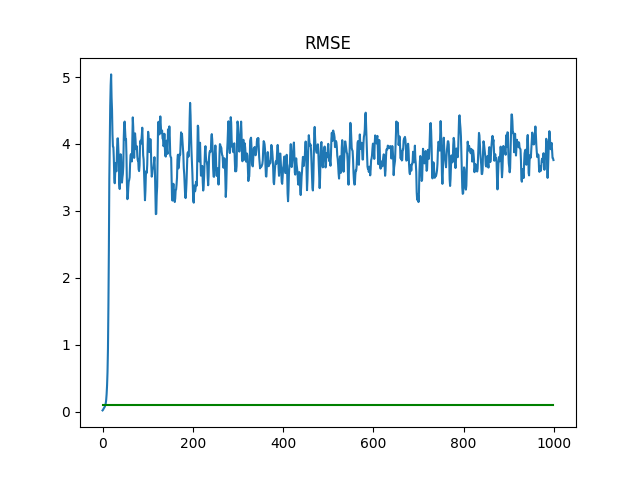
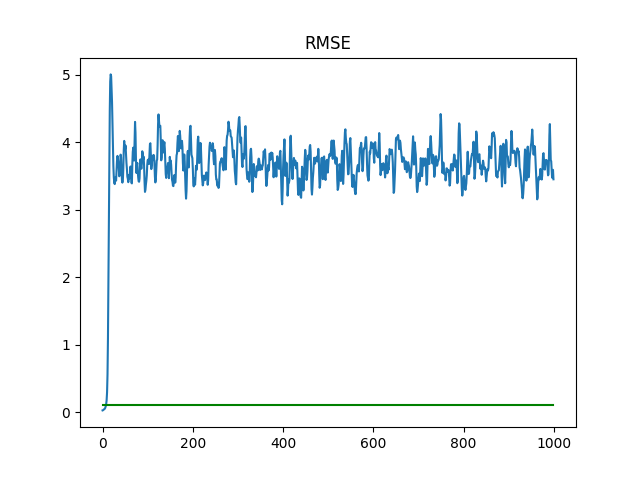
covariance inflation

diff --git a/driv96.m b/driv96.m
@@ -5,10 +5,20 @@ N=40; %Number of ensemble members
 %H=eye(m,n); %Observation operator: 
 H = zeros(m,n);
 for k=1:m
-H(k,2*(k-1)+1)=1;
+%H(k,2*(k-1)+1)=1;
+%H(k,2*(k-1)+2)=1;
+H(k,k)=1;
 end
 H
 
+localization_radius = 3;
+C_localization = zeros( n );
+
+for i=1:n
+    for j=1:n
+        C_localization( i, j ) = GC( abs( i - j ), localization_radius );
+    end
+end
 
 dt = 0.1 %Time between observations
 J = 1000; %Number of assimilation times
@@ -44,7 +54,7 @@ end
 
 %Main Time Loop
 for j=1:J
-
+j
 %Prediction of Ensembles
 for k=1:N
 Tspan = [(j)*dt,(j+1)*dt];
@@ -67,8 +77,11 @@ Chat = Chat + covvec*covvec';
 end
 Chat = Chat/(N-1);
 
+% Apply the localization
+Chat = C_localization.*Chat;
+
 %Analysis
-S = H*Chat*H'+Gamma;
+S = H*(Chat)*H'+Gamma;
 for k=1:N
 Innov(:,k) = yt(:,j+1)-H*Vharr(:,k)+alpha*randn(1,m)';
 SinvI(:,k) = S\Innov(:,k);
@@ -99,3 +112,16 @@ plot([1:J],alpha*ones(J,1),'g-');
 title('RMSE');
 
 meanVarr = Vharr;RMSE = mean(RMSE)
+
+function gc_val = GC( dist, r )
+    if ( dist >= 0 && dist < 1 )
+        gc_val = 1 - ( ( 5 / 3 ) * dist ^ 2 ) + ( ( 5 / 8 ) * dist ^ 3 ) + ( ( 1 / 2 ) * dist ^ 4 ) - ( ( 1 / 4 ) * dist ^ 5 );
+
+    elseif ( dist >= 1 && dist < r )
+        gc_val = 4 - ( 5 * dist ) + ( ( 5 / 3 ) * dist ^ 2 ) + ( ( 5 / 8 ) * dist ^ 3 ) - ( ( 1 / 2 ) * dist ^ 4 ) - ( ( 1 / 12 ) * dist ^ 5 ) - ( 2 / ( 3 * dist ) );
+    
+    else
+        gc_val = 0;
+    end
+    return
+end

diff --git a/driv96.py b/driv96.py
@@ -10,9 +10,8 @@ m=20 #Dimension of observation space
 N=40 #Number of ensemble members
 H = np.zeros((m,n))
 for k in range(m):
-    for j in range(n):
-        if not j % 2:
-            H[k][j]=1
+    if k % 2:
+        H[ k ][ k ]
 
 dt = 0.1 #Time between observations
 J = 1000 #Number of assimilation times
